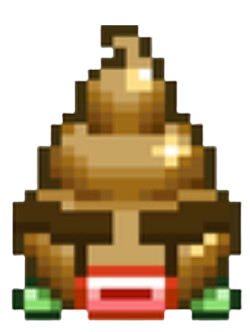
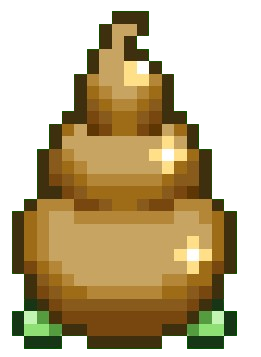
animatie is gelukt. en ga nu werken aan de iceblock

diff --git a/characters.js b/characters.js
@@ -1,7 +1,10 @@
 //board
 let backgroundMusic;
 
-let pacmanAnimImage;
+let chocolateupanim;
+let chocolateleftanim;
+let chocolatedrightanim;
+let chocolatedownanim;
 let pacmanNormalImage;
 let pacmanAnimToggle = false;
 
@@ -113,9 +116,18 @@ function loadImages() {
     pacmanRightImage = new Image();
     pacmanRightImage.src = "./chocolateright.png";
     pacmanRightImage.onload = imageLoaded;
-    pacmanAnimImage = new Image();
-    pacmanAnimImage.src = "./pacman.png";
-    pacmanAnimImage.onload = imageLoaded;
+    chocolateupanim = new Image();
+    chocolateupanim.src = "./chocolateupanim.png";
+    chocolateupanim.onload = imageLoaded;
+    chocolatedownanim = new Image();
+    chocolatedownanim.src = "./chocolatedownanim.png";
+    chocolatedownanim.onload = imageLoaded;
+    chocolateleftanim = new Image();
+    chocolateleftanim.src = "./chocolateleftanim.png";
+    chocolateleftanim.onload = imageLoaded;
+    chocolaterightanim = new Image();
+    chocolaterightanim.src = "./chocolaterightanim.png";
+    chocolaterightanim.onload = imageLoaded;
 }
 
 function imageLoaded() {
@@ -138,12 +150,28 @@ function imageLoaded() {
 
         setInterval(() => {
             if (gameOver || !pacman) return;
-
+            
+            if (pacman.direction == 'U'){
             pacmanAnimToggle = !pacmanAnimToggle;
-            pacman.image = pacmanAnimToggle ? pacmanAnimImage : pacmanNormalImage;
+            pacman.image = pacmanAnimToggle ? chocolateupanim : pacmanNormalImage;
+            }
+            if (pacman.direction == 'D'){
+            pacmanAnimToggle = !pacmanAnimToggle;
+            pacman.image = pacmanAnimToggle ? chocolatedownanim : pacmanNormalImage;
+            }
+            if (pacman.direction == 'L'){
+            pacmanAnimToggle = !pacmanAnimToggle;
+            pacman.image = pacmanAnimToggle ? chocolateleftanim : pacmanNormalImage;
+            }
+            if (pacman.direction == 'R'){
+            pacmanAnimToggle = !pacmanAnimToggle;
+            pacman.image = pacmanAnimToggle ? chocolaterightanim : pacmanNormalImage;
+            }
+
         }, 175);
     }
 }
+
 
 function loadMap() {
     walls.clear();
